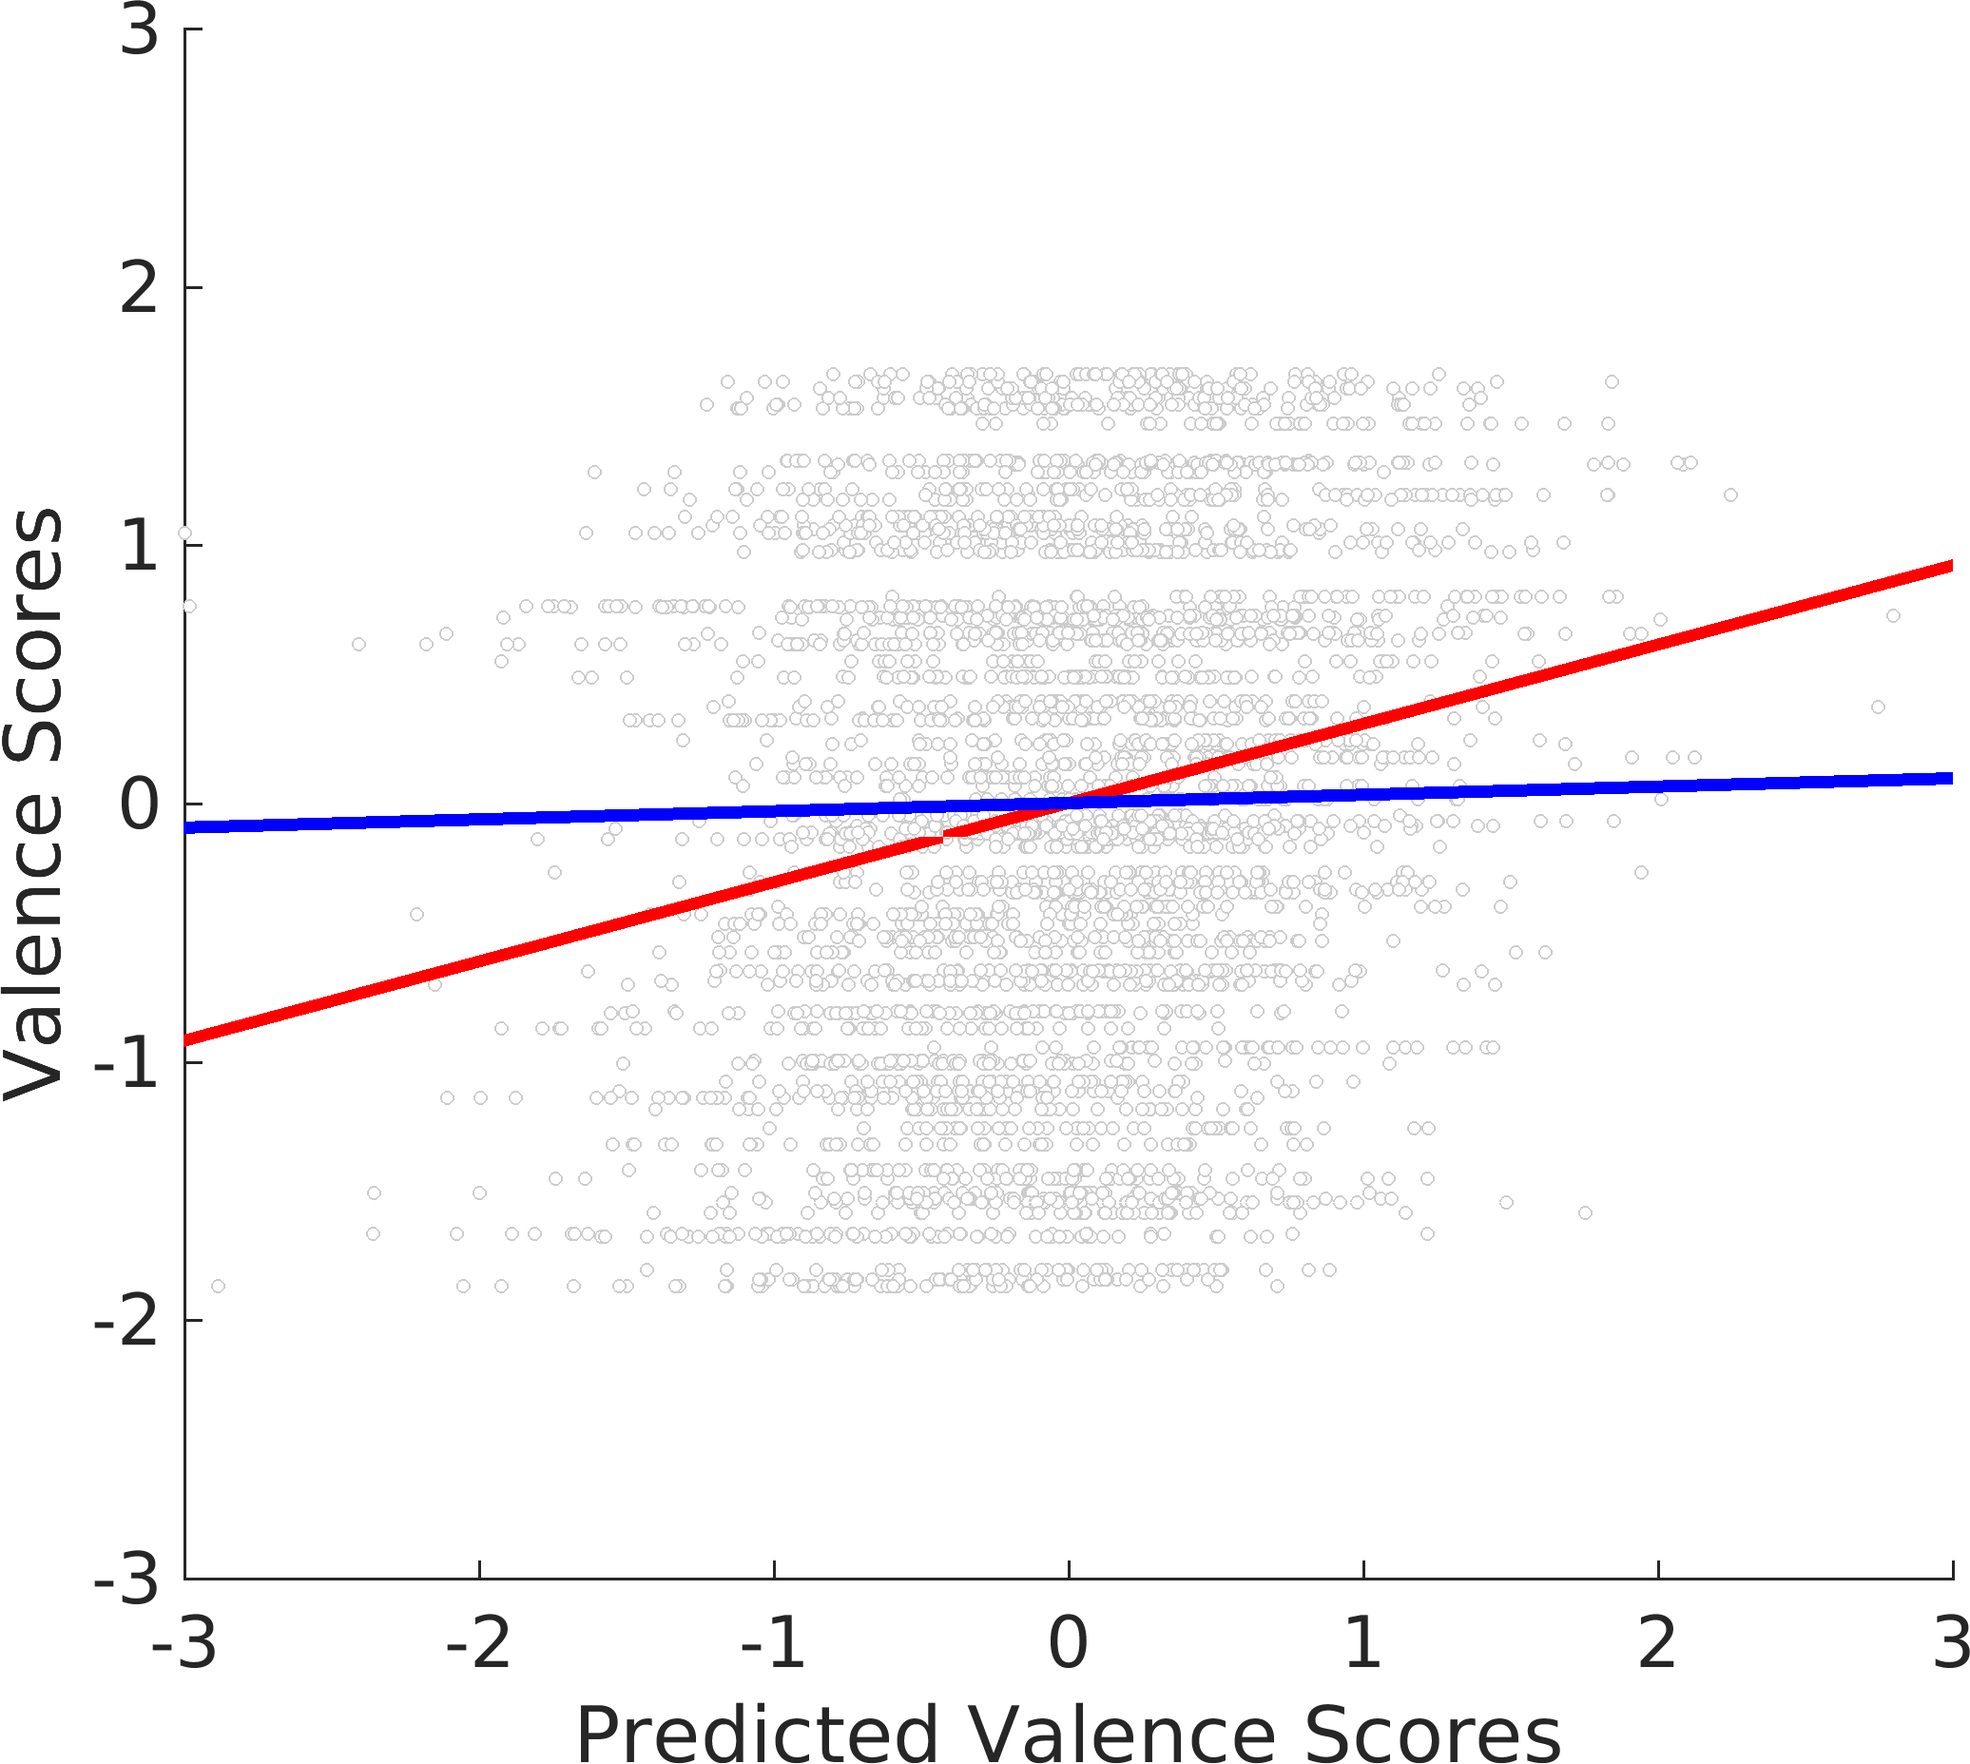
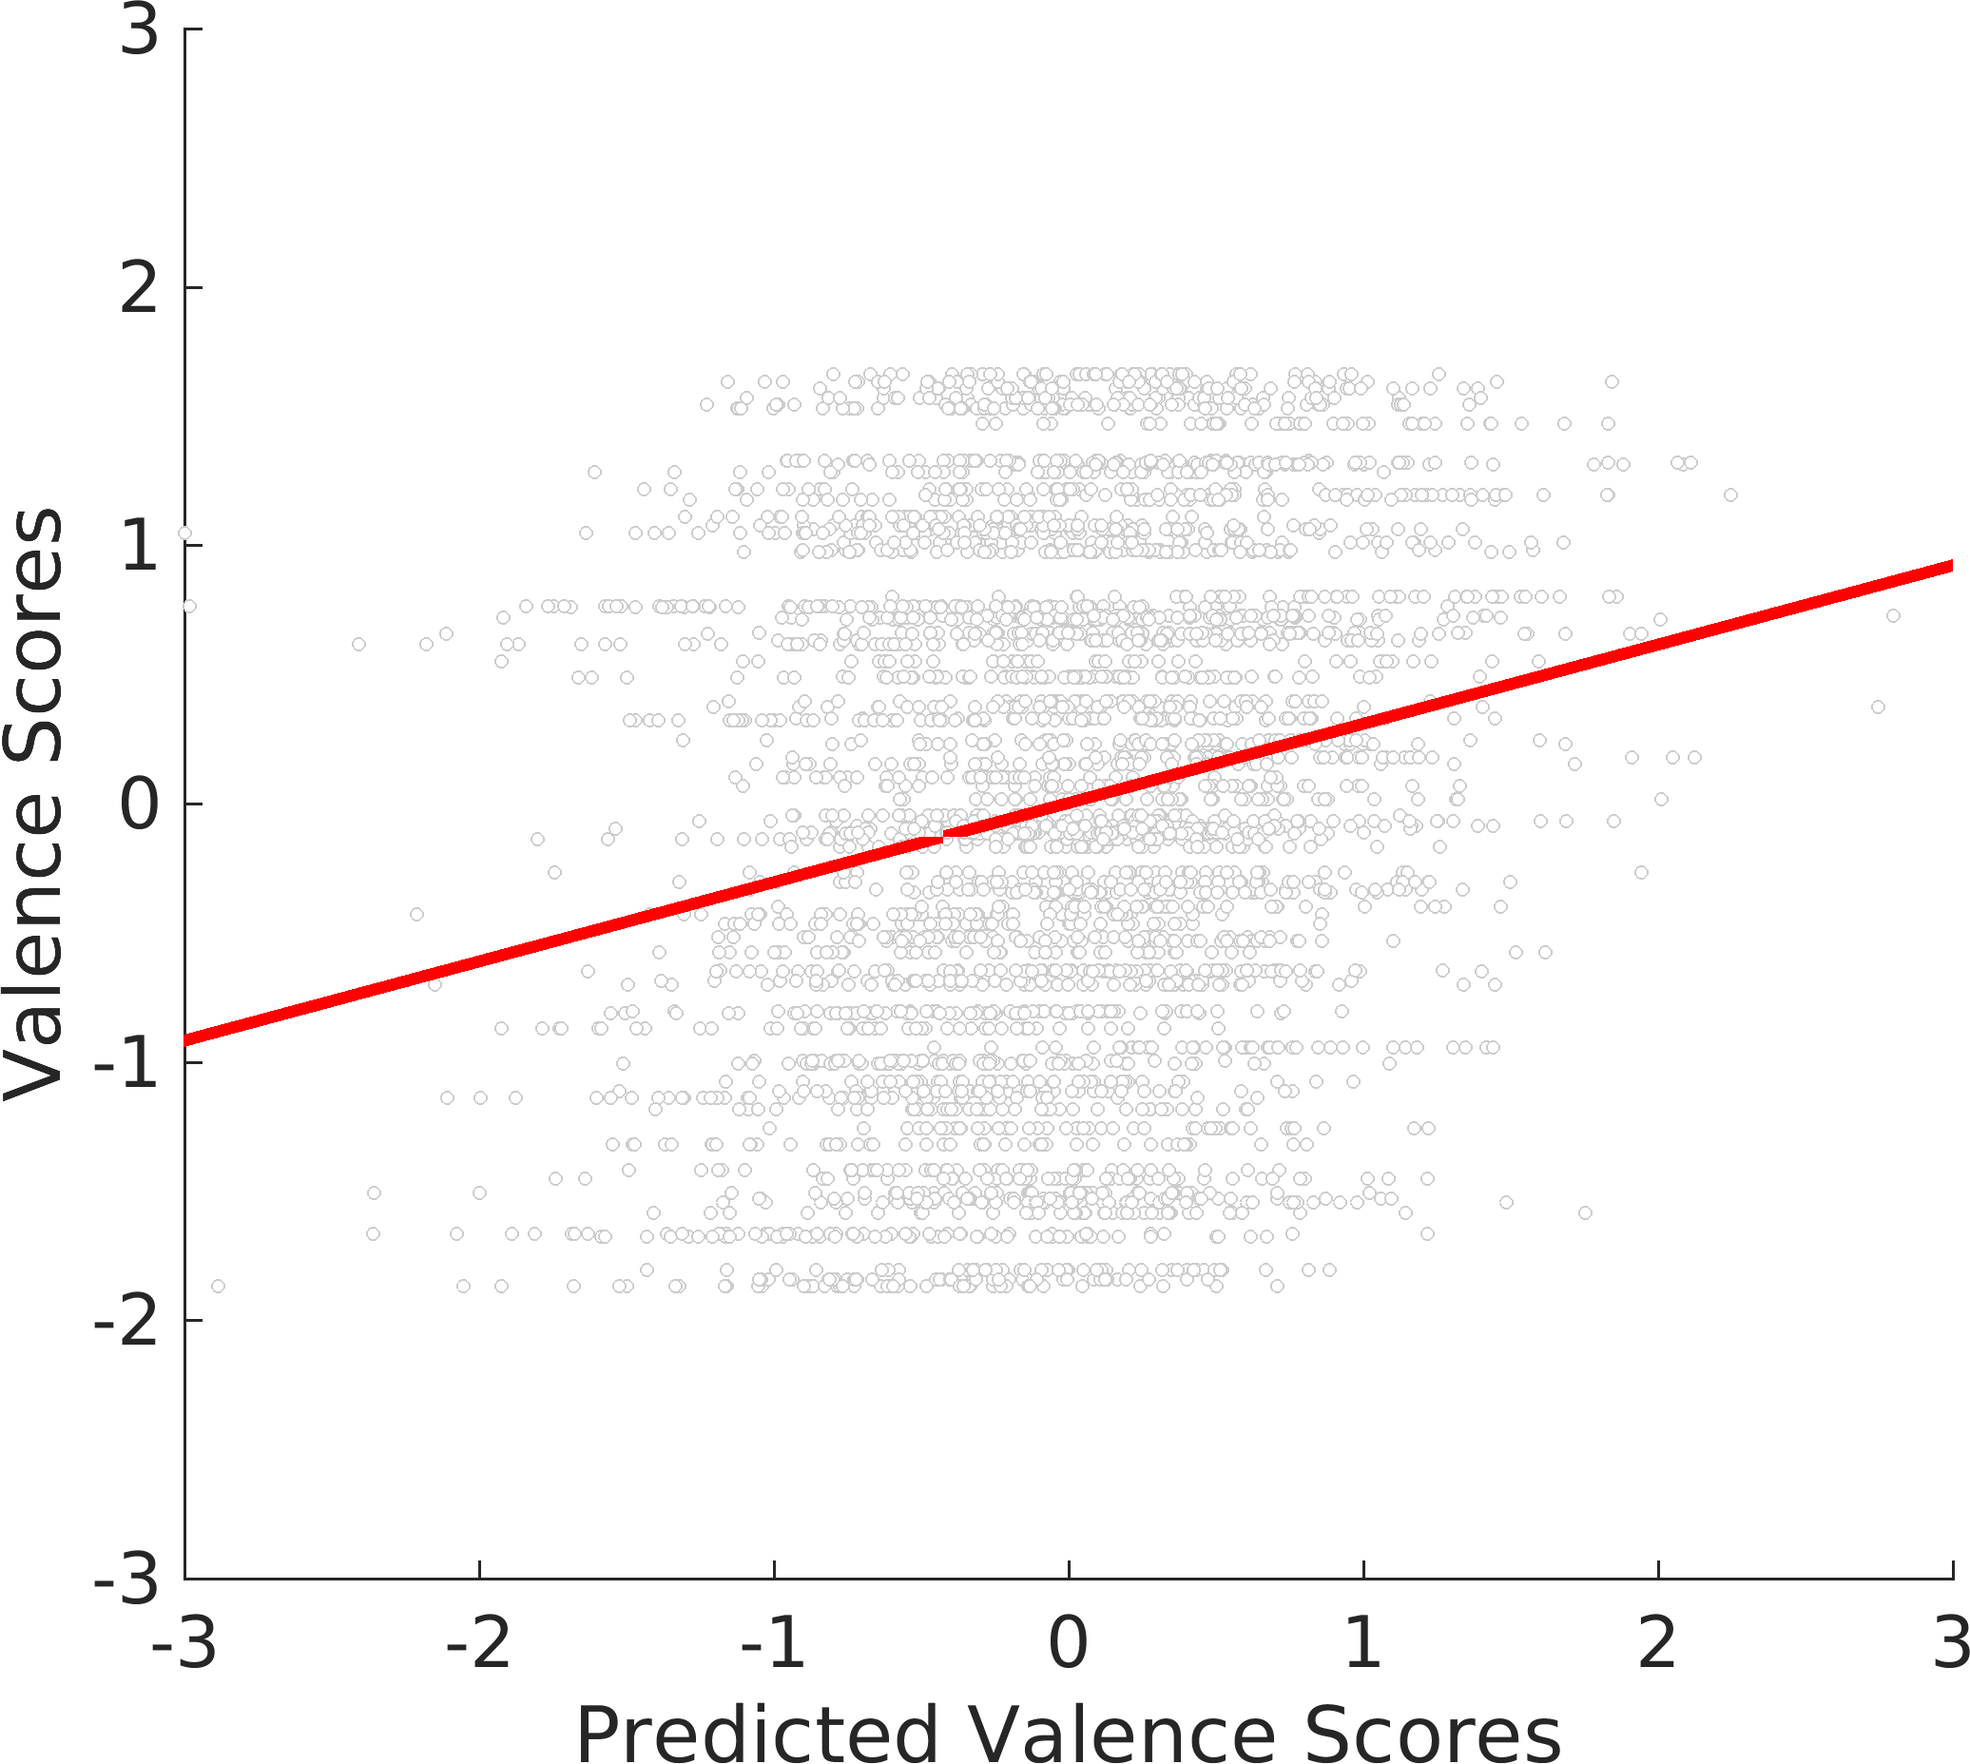
fixed intra-subject Haufe transform and permutation testing

Changed region(s): [[0.0927, 0.4302, 0.9884, 0.4916]]

diff --git a/source/haufe/haufe_ex_gm_bpm_all_permute.m b/source/haufe/haufe_ex_gm_bpm_all_permute.m
@@ -1,0 +1,260 @@
+%%========================================
+%%========================================
+%%
+%% Keith Bush, PhD (2018)
+%% Univ. of Arkansas for Medical Sciences
+%% Brain Imaging Research Center (BIRC)
+%%
+%%========================================
+%%========================================
+
+%% Load in path data
+load('proj.mat');
+
+%% Initialize log section
+logger(['************************************************'],proj.path.logfile);
+logger([' Global Permutation Testing of MVPA Hyperplanes '],proj.path.logfile);
+logger(['************************************************'],proj.path.logfile);
+
+%% Set-up Directory Structure for fMRI betas
+if(proj.flag.clean_build)
+    disp(['Removing ',proj.path.haufe.bpm_permute_all]);
+    eval(['! rm -rf ',proj.path.haufe.bpm_permute_all]);
+    disp(['Creating ',proj.path.haufe.bpm_permute_all]);
+    eval(['! mkdir ',proj.path.haufe.bpm_permute_all]);
+end
+
+%% ----------------------------------------
+%% load subjs
+subjs = load_subjs(proj);
+
+%% ----------------------------------------
+%% Load labels;
+label_id = load([proj.path.trg.ex,'stim_ids.txt']);
+v_label = load([proj.path.trg.ex,'stim_v_labs.txt']);
+v_score = load([proj.path.trg.ex,'stim_v_scores.txt']);
+ex_id = find(label_id==proj.param.trg.ex_id);
+
+
+%% ----------------------------------------
+%% iterate over permuations
+Nperm = proj.param.haufe.npermute;
+Nloop = Nperm + 1; %% first loop is true model structure
+Nchunk = proj.param.haufe.chunk;
+
+%% storage for group Haufe 
+grp_haufe_v = zeros(172800,Nloop);  %%*** TICKET hardcoded ***
+
+%% permutation significance levels
+alpha05 = 0.05;
+alpha01 = 0.01;
+alpha001 = 0.001;
+
+
+load([proj.path.physio.hr_bpm,'min_traj_idx.mat']);
+
+for i = 1:Nloop
+
+    tic
+
+    %%storage for group haufe 
+    all_haufe_v_wts = zeros(172800,numel(subjs));
+    all_haufe_v_mask = zeros(172800,numel(subjs));
+
+    qlty_vec = zeros(1,numel(subjs));
+
+    %% ----------------------------------------
+    %% iterate over study subjects
+    for j = 1:numel(subjs)
+        
+        %% extract subject info
+        subj_study = subjs{j}.study;
+        name = subjs{j}.name;
+        id = subjs{j}.id;
+        
+        %% debug
+        logger([subj_study,':',name,':i=',num2str(i)],proj.path.logfile);
+        
+        try
+
+            %% Load BPM data
+            load([proj.path.physio.hr_bpm,subj_study,'_',name,'_trajs.mat']);
+            bpm = trajs(:,min_traj_idx);
+            
+            %% Load gray matter mask 
+            gm_nii = load_nii([proj.path.mri.gm_mask,'group_gm_mask.nii']);
+            mask = double(gm_nii.img);
+            brain_size=size(mask);
+            mask = reshape(mask,brain_size(1)*brain_size(2)*brain_size(3),1);
+            in_brain=find(mask==1);  
+            
+            %% Load beta-series
+            base_nii = load_nii([proj.path.betas.fmri_ex_beta,subj_study,'_',name,'_lss.nii']);
+            brain_size = size(base_nii.img);
+            
+            %% Vectorize the base image
+            base_img = vec_img_2d_nii(base_nii);
+            base_img = reshape(base_img,brain_size(1)*brain_size(2)*brain_size(3),brain_size(4));
+            
+            %% Concatenate the MASKED base image
+            all_img = base_img(in_brain,:)';
+            
+            %% ----------------------------------------
+            %% ----------------------------------------
+            %% NEED TO EXTRACT EX STIM
+            %% ----------------------------------------
+            %% ----------------------------------------
+            ex_img = all_img(ex_id,:);
+
+            %% Peform quality check of generated features
+            qlty = check_gm_img_qlty(ex_img);
+
+            if(qlty.ok)
+
+                %% Grab all labels in proper order
+                label_ids = 1:numel(bpm);
+                
+                %% Only first iteration is structure (remaining
+                %% loops are permutations, therefore randomize labels
+                if(i>1)
+                    label_ids = randsample(label_ids,numel(label_ids));
+                end
+
+                %% Fit classifier
+                mdl = fitrsvm(ex_img(label_ids,:),bpm(label_ids),'KernelFunction',proj.param.mvpa.kernel);
+
+                %% Construct Valence Haufe tranform
+                wts = mdl.Beta;
+                haufe_v_wts = zscore(fast_haufe(ex_img,wts,Nchunk));
+                all_haufe_v_wts(in_brain,j) = haufe_v_wts;
+                all_haufe_v_mask(in_brain,j) = 1;
+                
+                qlty_vec(j)=1;
+                
+
+            else
+                logger(['  -Failed Quality Check'],proj.path.logfile);
+            end
+            
+        catch
+            logger(['  -Haufe Error'],proj.path.logfile);
+        end
+
+    end
+
+    %% ----------------------------------------
+    %% Extract Quality fits        
+    qlty_ids = find(qlty_vec==1);
+    qlty_n = numel(qlty_ids);
+    
+    qlty_haufe_v_wts = all_haufe_v_wts(:,qlty_ids);
+    qlty_haufe_v_mask = all_haufe_v_mask(:,qlty_ids);
+    
+    %% ----------------------------------------
+    %% Group Mean Haufe transforms (1 saved per permutation)
+    
+    %% Group valence Haufe
+    ahf_sum = sum(qlty_haufe_v_mask,2);
+    row_ids_v = find(ahf_sum>(qlty_n/2));
+
+    % Distribution version
+    grp_haufe_v_dist = zeros(size(grp_haufe_v,1),qlty_n);
+    grp_haufe_v_dist(row_ids_v,:) = qlty_haufe_v_wts(row_ids_v,:);
+
+    % Mean version
+    grp_haufe_v(row_ids_v,i) = mean(qlty_haufe_v_wts(row_ids_v,:),2);
+
+    % T-score version
+    if(i==1)
+        grp_haufe_v_tstat = 0*grp_haufe_v(:,1);
+        for k=1:numel(row_ids_v)
+            [h p ci stat] = ttest(qlty_haufe_v_wts(row_ids_v(k),:));
+            grp_haufe_v_tstat(row_ids_v(k),1)=stat.tstat;
+        end
+    end
+
+    %% ----------------------------------------
+    %% Do permutation test given samples available
+
+    
+    if(i>1)
+
+        save([proj.path.haufe.bpm_permute_all,'grp_haufe_v_n=',num2str(i-1),'_of_N=',num2str(Nperm),'.mat'],'grp_haufe_v');
+
+        if(i>2)
+            eval(['! rm ',proj.path.haufe.bpm_permute_all,'grp_haufe_v_n=',num2str(i-2),'_of_N=',num2str(Nperm),'.mat']);
+        end
+    
+        %% ----------------------------------------
+        %% Valence
+        sig_ids_05_v = [];
+        sig_ids_01_v = [];
+        sig_ids_001_v = [];
+        
+        for k=1:numel(row_ids_v)
+            
+            % Count extrem random samples
+            Next = 0;
+            if(grp_haufe_v(row_ids_v(k),1)>0)
+                Next = numel(find(grp_haufe_v(row_ids_v(k),2:i)>grp_haufe_v(row_ids_v(k),1)));
+            else
+                Next = numel(find(grp_haufe_v(row_ids_v(k),2:i)<grp_haufe_v(row_ids_v(k),1)));
+            end
+            
+            % Do 2-sided tests
+            if(Next<round((alpha05/2)*i))
+                sig_ids_05_v = [sig_ids_05_v,row_ids_v(k)];
+            end
+            
+            if(Next<round((alpha01/2)*i))
+                sig_ids_01_v = [sig_ids_01_v,row_ids_v(k)];
+            end
+            
+            if(Next<round((alpha001/2)*i))
+                sig_ids_001_v = [sig_ids_001_v,row_ids_v(k)];
+            end
+            
+        end
+
+        % ----------------------------------------
+        % Save out: mean encoding of group gray-matter voxels
+        if(numel(row_ids_v)>0)
+            mu_v_haufe_nii = build_nii_from_gm_mask(grp_haufe_v_tstat(row_ids_v,1),gm_nii,row_ids_v);
+            save_nii(mu_v_haufe_nii,[proj.path.haufe.bpm_permute_all,'mu_haufe_v_N=',num2str(Nperm),'.nii']);
+        end
+
+        % ----------------------------------------
+        % Save out: mean encoding of permstrap sign. (p<0.05) group
+        % gray-matter voxels
+        if(numel(sig_ids_05_v)>0)
+            mu_perm_v_haufe_nii = build_nii_from_gm_mask(grp_haufe_v_tstat(sig_ids_05_v,1),gm_nii,sig_ids_05_v);
+            save_nii(mu_perm_v_haufe_nii,[proj.path.haufe.bpm_permute_all,'mu_perm_haufe_v_N=',num2str(Nperm),'_05.nii']);
+        end
+
+        % ----------------------------------------
+        % Save out: mean encoding of permstrap sign. (p<0.01) group
+        % gray-matter voxels
+        if(numel(sig_ids_01_v)>0)
+            mu_perm_v_haufe_nii = build_nii_from_gm_mask(grp_haufe_v(sig_ids_01_v,1),gm_nii,sig_ids_01_v);
+            save_nii(mu_perm_v_haufe_nii,[proj.path.haufe.bpm_permute_all,'mu_perm_haufe_v_N=',num2str(Nperm),'_01.nii']);
+        end
+
+        % ----------------------------------------
+        % Save out: mean encoding of permstrap sign. (p<0.001) group gray-matter voxels
+        if(numel(sig_ids_001_v)>0)
+             mu_perm_v_haufe_nii = build_nii_from_gm_mask(grp_haufe_v(sig_ids_001_v,1),gm_nii,sig_ids_001_v);
+             save_nii(mu_perm_v_haufe_nii,[proj.path.haufe.bpm_permute_all,'mu_perm_haufe_v_N=',num2str(Nperm),'_001.nii']);
+        end
+
+    else
+        
+        % ----------------------------------------
+        % Save out: wts of encodign for power analysis
+        disp('saving distribution***************')
+        save([proj.path.haufe.bpm_permute_all,'grp_haufe_distr.mat'],'grp_haufe_v_dist');
+
+    end
+
+    toc
+
+end

diff --git a/source/analysis/analyze_svm_bpm_v.m b/source/analysis/analyze_svm_bpm_v.m
@@ -103,7 +103,7 @@ subjects = double(subjects);
 %                     'pred2','subj'});
 % mdl_fe = fitlme(tbl,['trg ~ 1 + pred2']);
 % mdl_re= fitlme(tbl,['trg ~ 1 + pred2 + (1+pred2|subj)']);
-% 
+
 % Model SVM & BPM combined
 tbl = table(measures,pred1,pred2,subjects,'VariableNames',{'trg', ...
                     'pred1','pred2','subj'});
@@ -165,11 +165,11 @@ spred1 = y;
 y_hat = FE.Estimate(1) + FE.Estimate(2)*spred1; 
 plot(spred1,y_hat,'r-','LineWidth',3);
 
-%% overlay the estimate
-[y,idx] = sort(pred2);
-spred2 = y;
-y_hat = FE.Estimate(1) + FE.Estimate(3)*spred2; 
-plot(spred2,y_hat,'b-','LineWidth',3);
+% %% overlay the estimate
+% [y,idx] = sort(pred2);
+% spred2 = y;
+% y_hat = FE.Estimate(1) + FE.Estimate(3)*spred2; 
+% plot(spred2,y_hat,'b-','LineWidth',3);
 
 
 xlim([xmin,xmax]);
@@ -188,29 +188,29 @@ export_fig 'EX_predicted_v_summary.png' -r300
 eval(['! mv ',proj.path.code,'EX_predicted_v_summary.png ',proj.path.fig]);
 
 
-%% ----------------------------------------
-figure(2)
-set(gcf,'color','w');
-
-%% plot all the datapoints
-scatter(pred2*FE.Estimate(3),measures-(FE.Estimate(1)+FE.Estimate(2)*spred1),10, ...
-        'MarkerFaceColor', proj.param.plot.white,'MarkerEdgeColor', ...
-        proj.param.plot.light_grey);
-hold on;
-
-%% overlay the estimate
-[y,idx] = sort(pred2);
-spred2 = y;
-y_hat = FE.Estimate(3)*spred2; 
-plot(spred2,y_hat,'b-','LineWidth',3);
-
-xlim([-.1,.1]);
-ylim([ymin,ymax]);
-
-hold off;
-fig = gcf;
-ax = fig.CurrentAxes;
-ax.FontSize = proj.param.plot.axisLabelFontSize;
-
-ylabel('Valence Scores');
-ylabel('Main effect residuals');
+% %% ----------------------------------------
+% figure(2)
+% set(gcf,'color','w');
+% 
+% %% plot all the datapoints
+% scatter(pred2*FE.Estimate(3),measures-(FE.Estimate(1)+FE.Estimate(2)*spred1),10, ...
+%         'MarkerFaceColor', proj.param.plot.white,'MarkerEdgeColor', ...
+%         proj.param.plot.light_grey);
+% hold on;
+% 
+% %% overlay the estimate
+% [y,idx] = sort(pred2);
+% spred2 = y;
+% y_hat = FE.Estimate(3)*spred2; 
+% plot(spred2,y_hat,'b-','LineWidth',3);
+% 
+% xlim([-.1,.1]);
+% ylim([ymin,ymax]);
+% 
+% hold off;
+% fig = gcf;
+% ax = fig.CurrentAxes;
+% ax.FontSize = proj.param.plot.axisLabelFontSize;
+% 
+% ylabel('Valence Scores');
+% ylabel('Main effect residuals');

diff --git a/source/init_project.m b/source/init_project.m
@@ -104,9 +104,10 @@ proj.path.mvpa.hr_all = [proj.path.data,proj.path.mvpa.name,'hr_all/'];
 proj.path.mvpa.v_all = [proj.path.data,proj.path.mvpa.name,'v_all/'];  
 
 %% Haufe paths (all)
-proj.path.haufe.hr_permute_thresh = [proj.path.data,proj.path.haufe.name,'hr_permute_thresh/'];  
-proj.path.haufe.hr_permute_all = [proj.path.data,proj.path.haufe.name,'hr_permute_all/'];  
-proj.path.haufe.cosine = [proj.path.data,proj.path.haufe.name,'cosine/'];  
+% proj.path.haufe.hr_permute_thresh = [proj.path.data,proj.path.haufe.name,'hr_permute_thresh/'];  
+% proj.path.haufe.hr_permute_all = [proj.path.data,proj.path.haufe.name,'hr_permute_all/'];  
+% proj.path.haufe.cosine = [proj.path.data,proj.path.haufe.name,'cosine/'];  
+proj.path.haufe.bpm_permute_all = [proj.path.data,proj.path.haufe.name,'bpm_permute_all/'];  
 
 %% Task file nomenclature
 proj.path.task.name_id1 = 'Identify_run_1';

diff --git a/run_project.m b/run_project.m
@@ -73,9 +73,9 @@ init_project;
 % 
 %mvpa_fmri_ex_gm_rgr_v;    % intra-subj
 %
-
-analyze_svm_bpm_v;
- 
+% %% ***** ANALYZE!!!!!!
+% analyze_svm_bpm_v;
+%  
 % 
 % %% ------------------------------------------------------------
 % %% STEP 8: Compare MVPA hyperplanes (V vs HR)
@@ -85,8 +85,8 @@ analyze_svm_bpm_v;
 % %% STEP 9: Secondary Analysis of EX physiology (Neuropsychologia Paper)
 % analyze_ex_hr_mvpa;
 % 
-% %% ------------------------------------------------------------ 
-% %% STEP 10: Hyperplane analysis
-% haufe_ex_gm_hr_mvpa_all_permute;
+%% ------------------------------------------------------------ 
+%% STEP 10: Hyperplane analysis
+haufe_ex_gm_bpm_all_permute;
 
 toc
